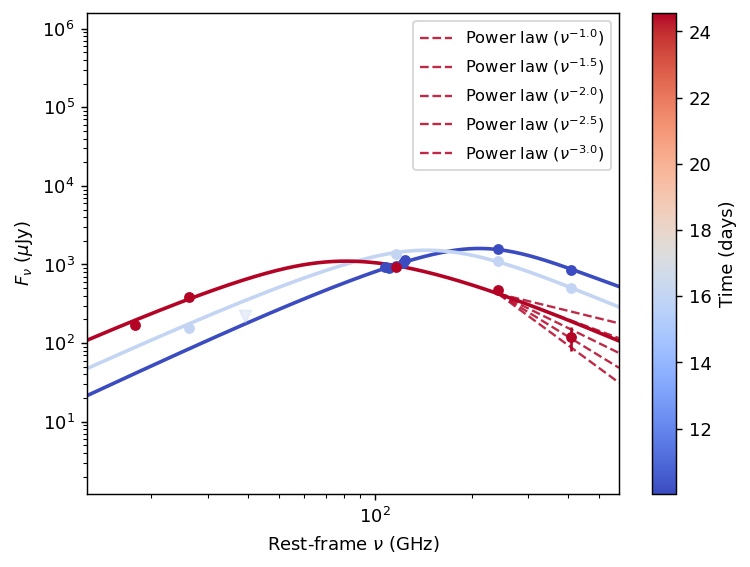
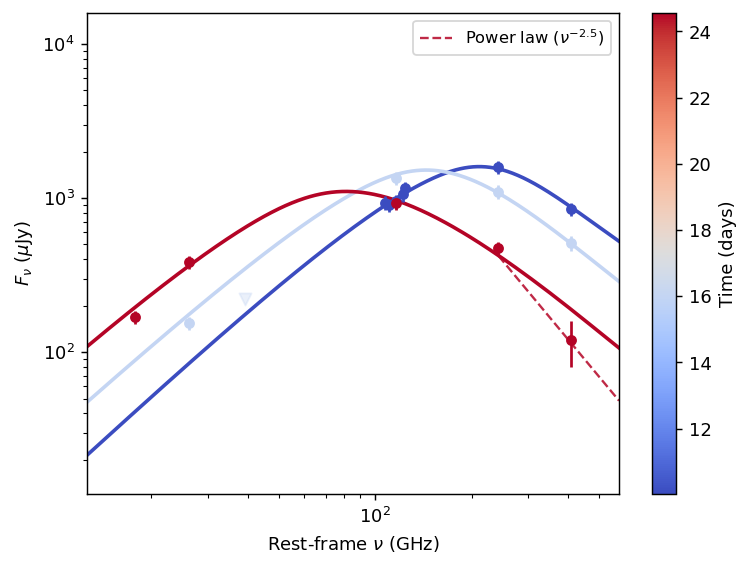
overlay plot updated to look more like Cassie's!

diff --git a/runSampler.py b/runSampler.py
@@ -1409,7 +1409,7 @@ def make_sed_collage(cfg, fixed):
 # at the frequency of the second-to-last (by frequency) SED point. Purely
 # a visual comparison aid -- add more (source, epoch) entries as needed. ---
 OVERLAY_REFERENCE_SLOPES = {
-    "dbl": {3: [-1.0, -1.5, -2.0, -2.5, -3.0]},
+    "dbl": {3: [-2.5]},
 }
 
 
@@ -1426,8 +1426,8 @@ def make_sed_overlay_plot(cfg, fixed):
 
     Y-limits: padded by whole DECADES (the standard log-axis major-tick
     unit) relative to the dimmest/brightest true DETECTION (non-detections/
-    promoted-upper-limit points don't count toward this) -- at least 2
-    decades below the dimmest, at least 3 above the brightest.
+    promoted-upper-limit points don't count toward this) -- ~1 decade
+    below the dimmest, ~1 decade above the brightest.
 
     X-limits: set to exactly match the shared fit-curve frequency range
     (same range every epoch's curve is evaluated over), no extra padding
@@ -1560,8 +1560,8 @@ def make_sed_overlay_plot(cfg, fixed):
     # TRUE detection (not non-detections/promoted points)
     all_det_flux = np.concatenate(detection_flux_uJy)
     dimmest, brightest = all_det_flux.min(), all_det_flux.max()
-    y_lo = dimmest / 10 ** 2   # >= 2 decades of room below the dimmest detection
-    y_hi = brightest * 10 ** 3  # >= 3 decades of room above the brightest detection
+    y_lo = dimmest / 10.0   # ~1 decade of room below the dimmest detection
+    y_hi = brightest * 10.0  # ~1 decade of room above the brightest detection
     ax.set_ylim(y_lo, y_hi)
 
     ax.set_xlabel(r"Rest-frame $\nu$ (GHz)")
